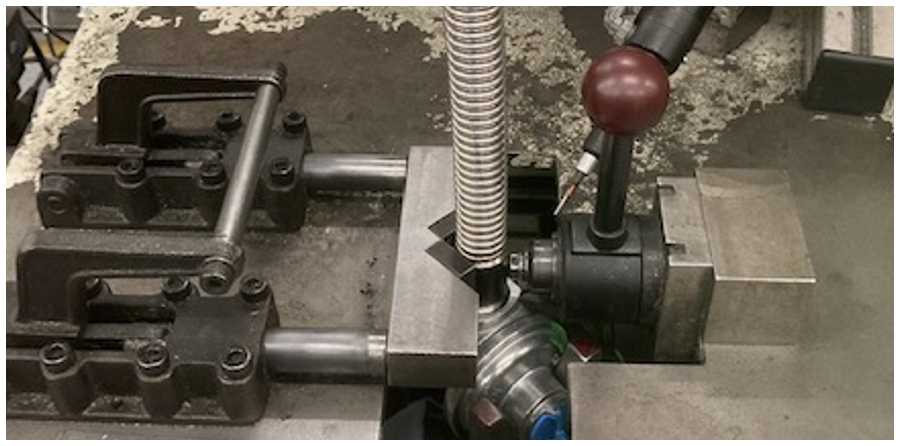
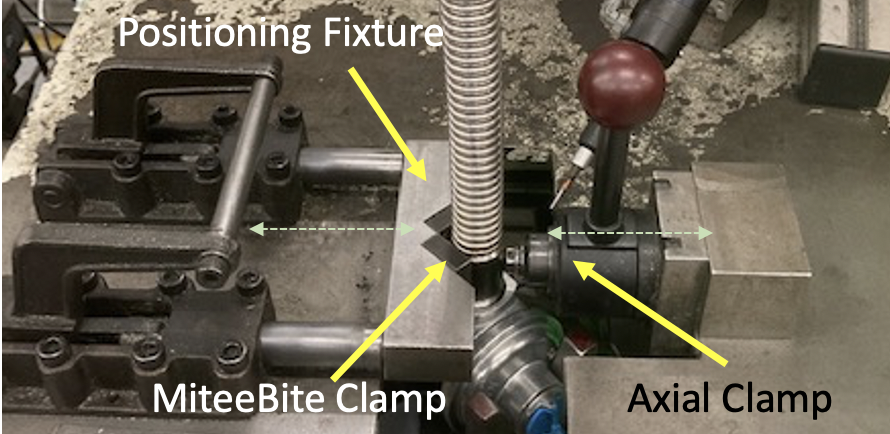
Updated ReadMe

Changed region(s): [[0.0, 0.0, 1.0, 1.0], [0.091, 0.5691, 0.3034, 0.7189], [0.3034, 0.3594, 0.3337, 0.3894]]

diff --git a/README.md b/README.md
@@ -90,6 +90,6 @@ Within the design a complex element was how the parts were to be held. This requ
 
 #### Item Positioning
 
-Positioning the component ready for torque application and fastening the component were two completely separate tasks. The hose which was being applied to the regulator body had a low concentric tolerance which meant that the general shape could not be relied upon to position exactly the same each time. This meant a guide had to be developed within the clamping system itself, then once near a position it could be secured. Additionally, the hose was susceptible to fracture if gripped too hard, also, if the hose slipped even a small amount there would be aesthetics damage which would render the product as scrap. With this in mind I chose the employ a V shaped clamp of my own design using [toggle clamps](https://uk.rs-online.com/web/p/clamps/0254692/) as a handle to engage the piece and then a V shaped positioner which I designed to hold a variant of the [MitteeBite edge clamp](https://www.wdscomponents.com/en-gb/jig-fixture/mitee-bite-work-holding/mitee-bite-edge-clamps/c-248). Once the piece was inline then it could be clamped using a [Axial Inline Clamp](https://www.wdscomponents.com/en-gb/jig-fixture/clamps/c-141). The axial inline clamp was chosen because it has a 90 degree locking position but crucially, locking doesn't occur until within a distance of 2mm. This final 2mm of travel is then actioned on a CAM system that can clamp to 500kg of load. The final positioning of this camp allowed for the clamp to still engage the part but not damage the part due to this close clamping distance. 
+Positioning the component ready for torque application and fastening the component were two completely separate tasks. The hose which was being applied to the regulator body had a low concentric tolerance which meant that the general shape could not be relied upon to position exactly the same each time. This meant a guide had to be developed within the clamping system itself, then once near a position it could be secured. Additionally, the hose was susceptible to fracture if gripped too hard, also, if the hose slipped even a small amount there would be aesthetics damage which would render the product as scrap. With this in mind I chose the employ a V shaped clamp of my own design using [toggle clamps](https://uk.rs-online.com/web/p/clamps/0254692/) as a handle to engage the piece and then a V shaped positioner which I designed to hold a variant of the [MitteeBite edge clamp](https://www.wdscomponents.com/en-gb/jig-fixture/mitee-bite-work-holding/mitee-bite-edge-clamps/c-248). Once the piece was inline then it could be clamped using a [Axial Inline Clamp](https://www.wdscomponents.com/en-gb/jig-fixture/clamps/c-141). The axial inline clamp was chosen because it has a 90 degree locking position but crucially, locking doesn't occur until within a distance of 2mm. This final 2mm of travel is then actioned on a CAM system that can clamp to 500kg of load. The final positioning of this camp allowed for the clamp to still engage the part but not damage the part due to this close clamping distance. This duel setup allowed both the positiinng clamp and the axial clamp to come together to offer a positive locking position no matter what the concentricity of the hose was but still meant that the centre of the hose was directly above the torque drive so when rotated it did not move off centre. 
 
 <p align="center"><img src="assets/clamping.png" width="100%"></p>
